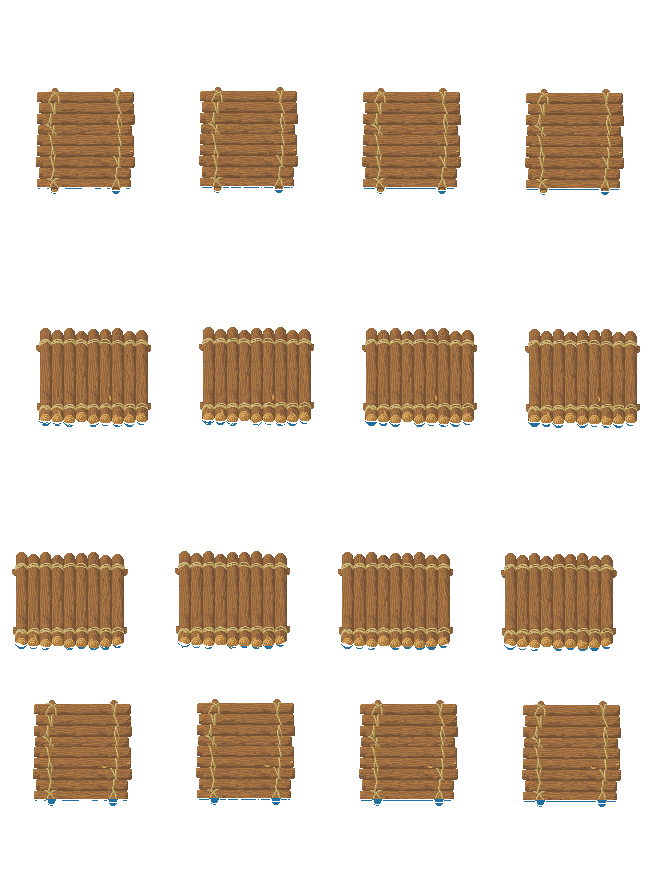
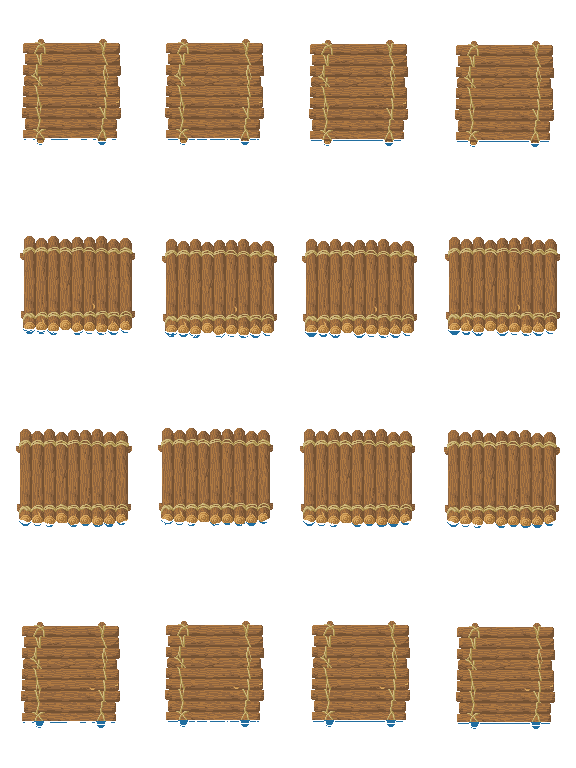
Save progress

diff --git a/game/core/views/raft_sprite.py b/game/core/views/raft_sprite.py
@@ -1,27 +1,34 @@
-"""Sprite Classes from community_rpg."""
+"""Raft class."""
+
+from enum import Enum
 
 import arcade
 from arcade import Sprite
 from beartype import beartype
 
 from ..constants import SPRITE_SIZE
-from ..models.base_player_inventory import PlayerInventoryInterface
-from ..models.sprite_state import Direction, PlayerState
 
+
+class RaftDirection(Enum):
+
+    DOWN = [0, 1, 2, 3]
+    LEFT = [4, 5, 6, 7]
+    RIGHT = [8, 9, 10, 11]
+    UP = [12, 13, 14, 15]
 
 class RaftSprite(arcade.Sprite):
     should_update: int | float = 0
     cur_texture_index: int = 0
-    direction: Direction = Direction.DOWN
+    direction: RaftDirection = RaftDirection.DOWN
     @beartype
     def __init__(self, sheet_name: str, center_x, center_y) -> None:
         super().__init__()
         self.textures = arcade.load_spritesheet(
             sheet_name,
-            sprite_width=SPRITE_SIZE * 6,
+            sprite_width=SPRITE_SIZE * 4.5,
             sprite_height=SPRITE_SIZE * 6,
-            columns=3,
-            count=12,
+            columns=4,
+            count=16,
         )
         self.texture = self.textures[self.cur_texture_index]
         self.center_x = center_x
@@ -41,15 +48,12 @@ class RaftSprite(arcade.Sprite):
         slope = self.change_y / (self.change_x + 0.0001)
         if abs(slope) < 0.8:
             self.direction = (
-                Direction.RIGHT if self.change_x > 0 else Direction.LEFT
+                RaftDirection.RIGHT if self.change_x > 0 else RaftDirection.LEFT
             )
         else:
-            self.direction = Direction.UP if self.change_y > 0 else Direction.DOWN
+            self.direction = RaftDirection.UP if self.change_y > 0 else RaftDirection.DOWN
 
         if self.cur_texture_index not in self.direction.value:
             self.cur_texture_index = self.direction.value[0]
 
         self.texture = self.textures[self.cur_texture_index]
-
-        self.center_x += self.change_x
-        self.center_y += self.change_y

diff --git a/game/core/game_view.py b/game/core/game_view.py
@@ -214,6 +214,8 @@ class GameView(arcade.View):  # pylint: disable=R0902
             self.raft.change_y,
         ) = self.pressed_keys.get_movement_vector(MOVEMENT_SPEED)
         self.raft.on_update()
+        self.raft.center_x = self.player_sprite.center_x
+        self.raft.center_y = self.player_sprite.center_y
         self.tile_map.on_update()
         game_clock = self.game_clock.on_update(delta_time)
         for register in self.get_all_registers():
